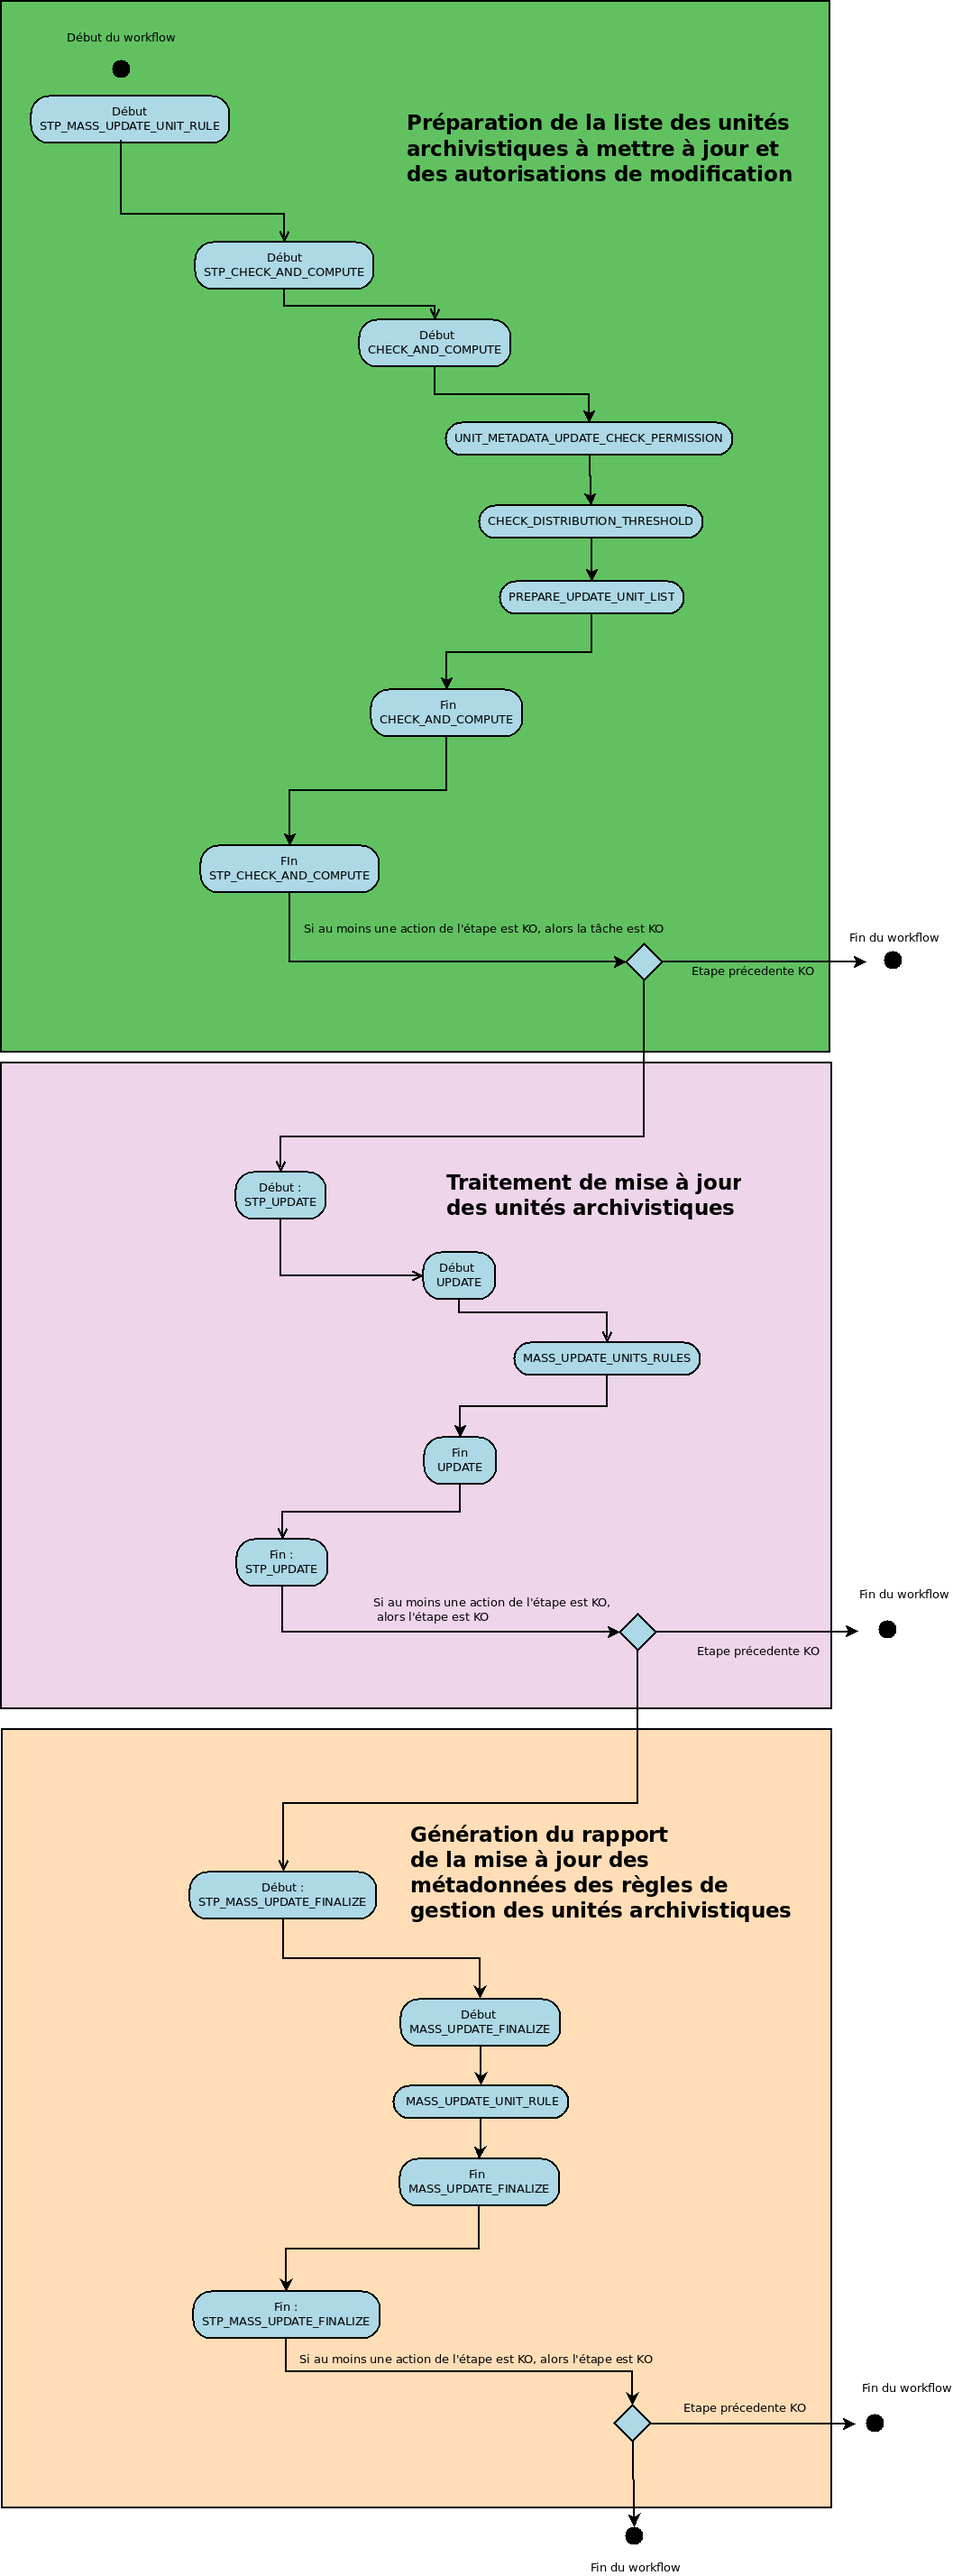
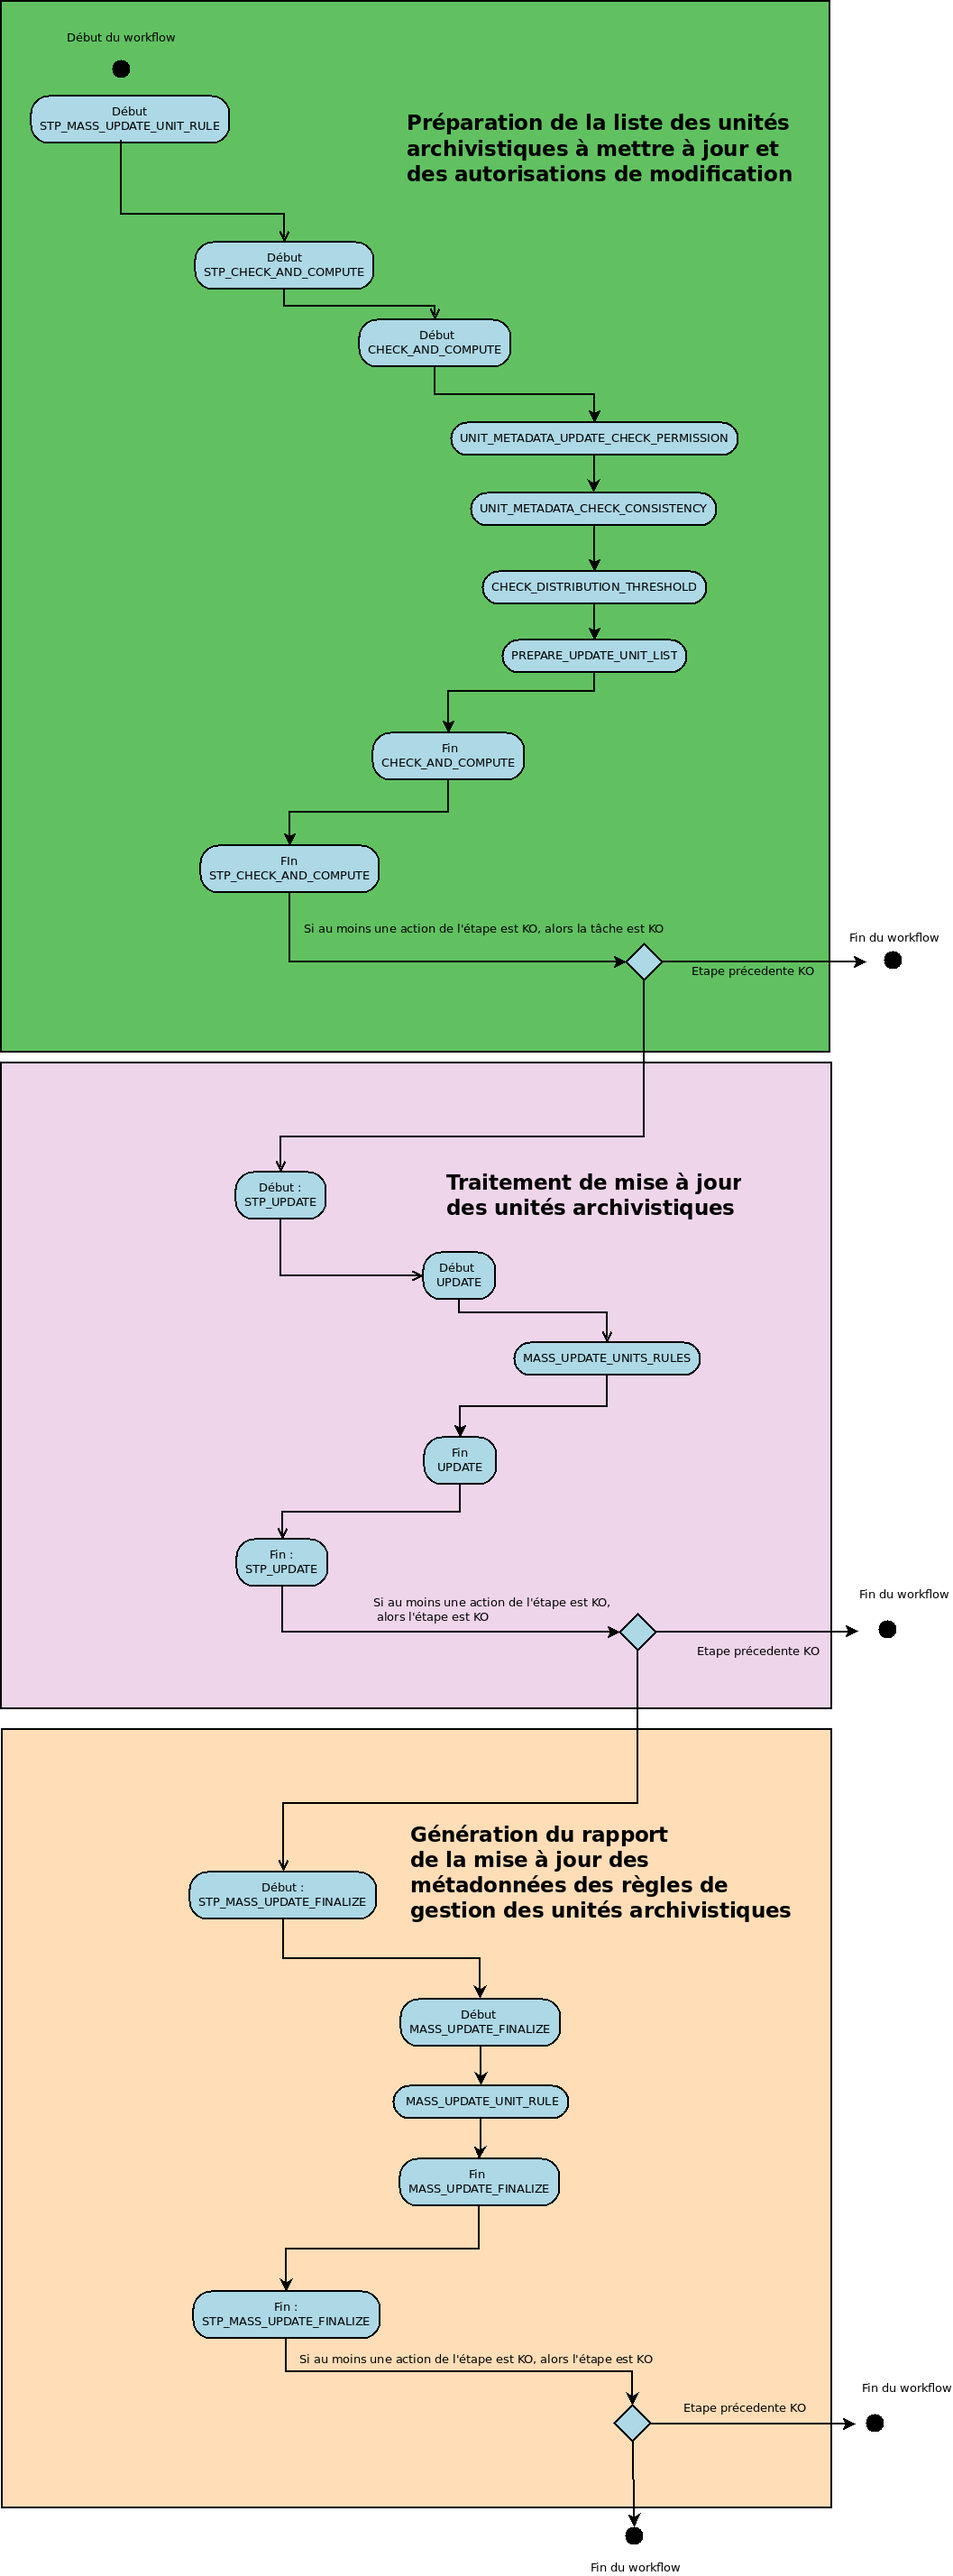
DOC US 4916 modele de workflow ajout METADATA CHECK CONSISTENCY

Changed region(s): [[0.3746, 0.1558, 0.7493, 0.3116], [0.7493, 0.1558, 0.7805, 0.187], [0.4683, 0.1558, 0.4995, 0.187]]

diff --git a/doc/fr/workflow-model/Traitement_de_masse/workflow_unit_mass_update.rst b/doc/fr/workflow-model/Traitement_de_masse/workflow_unit_mass_update.rst
@@ -182,21 +182,21 @@ Vérification des droits de mise à jour des métadonnées descriptives des unit
   + FATAL : une erreur technique est survenue lors de la vérification des droits de mise à jour des métadonnées des unités archivistiques (UNIT_METADATA_UPDATE_CHECK_PERMISSION.FATAL = Erreur technique lors de la vérification des droits de mise à jour des métadonnées des unités archivistiques)
 
 
-Vérification des identifiants de règles de gestion demandées lors de la mise à jour des unités archivistiques CHECK_RULES_ID
------------------------------------------------------------------------------------------------------------------------------
+Vérification de cohérence des actions lors de la mise à jour des règles de gestion unités archivistiques UNIT_METADATA_CHECK_CONSISTENCY
+-----------------------------------------------------------------------------------------------------------------------------------------
 
 
-+ **Règle** : Vérification des identifiants de règles de gestion demandées à la mise à jour des unités archivistiques 
++ **Règle** : Vérification de l'exitence des règles de gestion demandées, qu'elles appartienent à de la bonne catégorie (ajout/modif/suppression de règle, blocage/débloquage de règle). Vérification de la valeur du ClassificationLevel, que celles-ci contiennent bien une des valeurs configurée dans le fichier de configuration et vérification de l'identifiant d'AUP, que celui-ci correspond bien à un AUP actif disposant d'un schéma dans le référentiel.
 
 + **Type** : bloquant
 
 * **Statuts** :
 
-  + OK : la vérification des identifiants de règles de gestion demandées lors de la mise à jour des unités archivistiques a bien été effectué (CHECK_RULES_ID.OK = Succès de la vérification des identifiants de règles de gestion demandées lors de la mise à jour des unités archivistiques)
+  + OK : la vérification de cohérence des actions lors de la mise à jour des règles de gestion unités archivistiques a bien été effectué (UNIT_METADATA_CHECK_CONSISTENCY.OK=Succès de la vérification de cohérence des actions lors de la mise à jour des règles de gestion unités archivistiques)
 
-  + KO : la vérificationdes identifiants de règles de gestion demandées lors de la mise à jour des unités archivistiques n'a pas été effectuée en raison d'une erreur (CHECK_RULES_ID.KO = Échec de la vérification des identifiants de règles de gestion demandées lors de la mise à jour des unités archivistiques)
+  + KO : la vérification de cohérence des actions lors de la mise à jour des règles de gestion unités archivistiques n'a pas été effectuée en raison d'une erreur (UNIT_METADATA_CHECK_CONSISTENCY.KO=Échec de la vérification de cohérence des actions lors de la mise à jour des règles de gestion unités archivistiques)
 
-  + FATAL : une erreur technique est survenue lors de la vérification des identifiants de règles de gestion demandées lors de la mise à jour des unités archivistiques (CHECK_RULES_ID.FATAL = Erreur technique lors de la vérification des identifiants de règles de gestion demandées lors de la mise à jour des unités archivistiques)
+  + FATAL : une erreur technique est survenue lors de la vérification de cohérence des actions lors de la mise à jour des règles de gestion unités archivistique (UNIT_METADATA_CHECK_CONSISTENCY.FATAL=Erreur technique lors de la vérification de cohérence des actions lors de la mise à jour des règles de gestion unités archivistiques)
 
 
 Vérification des seuils de limitation de traitement des unités archivistiques CHECK_DISTRIBUTION_THRESHOLD
